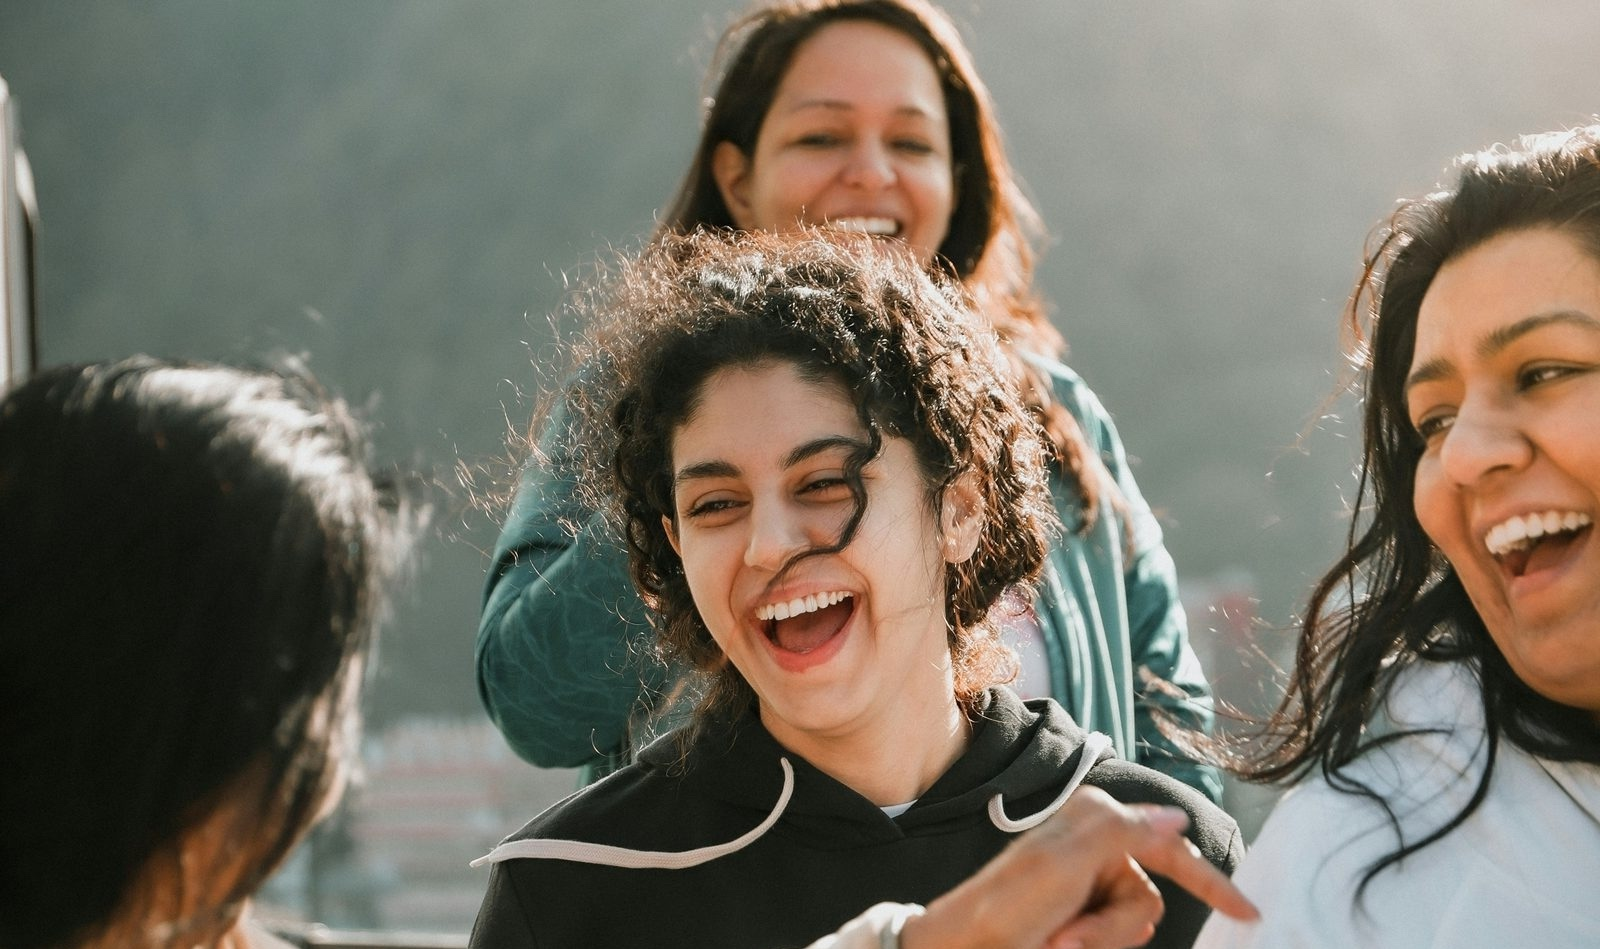
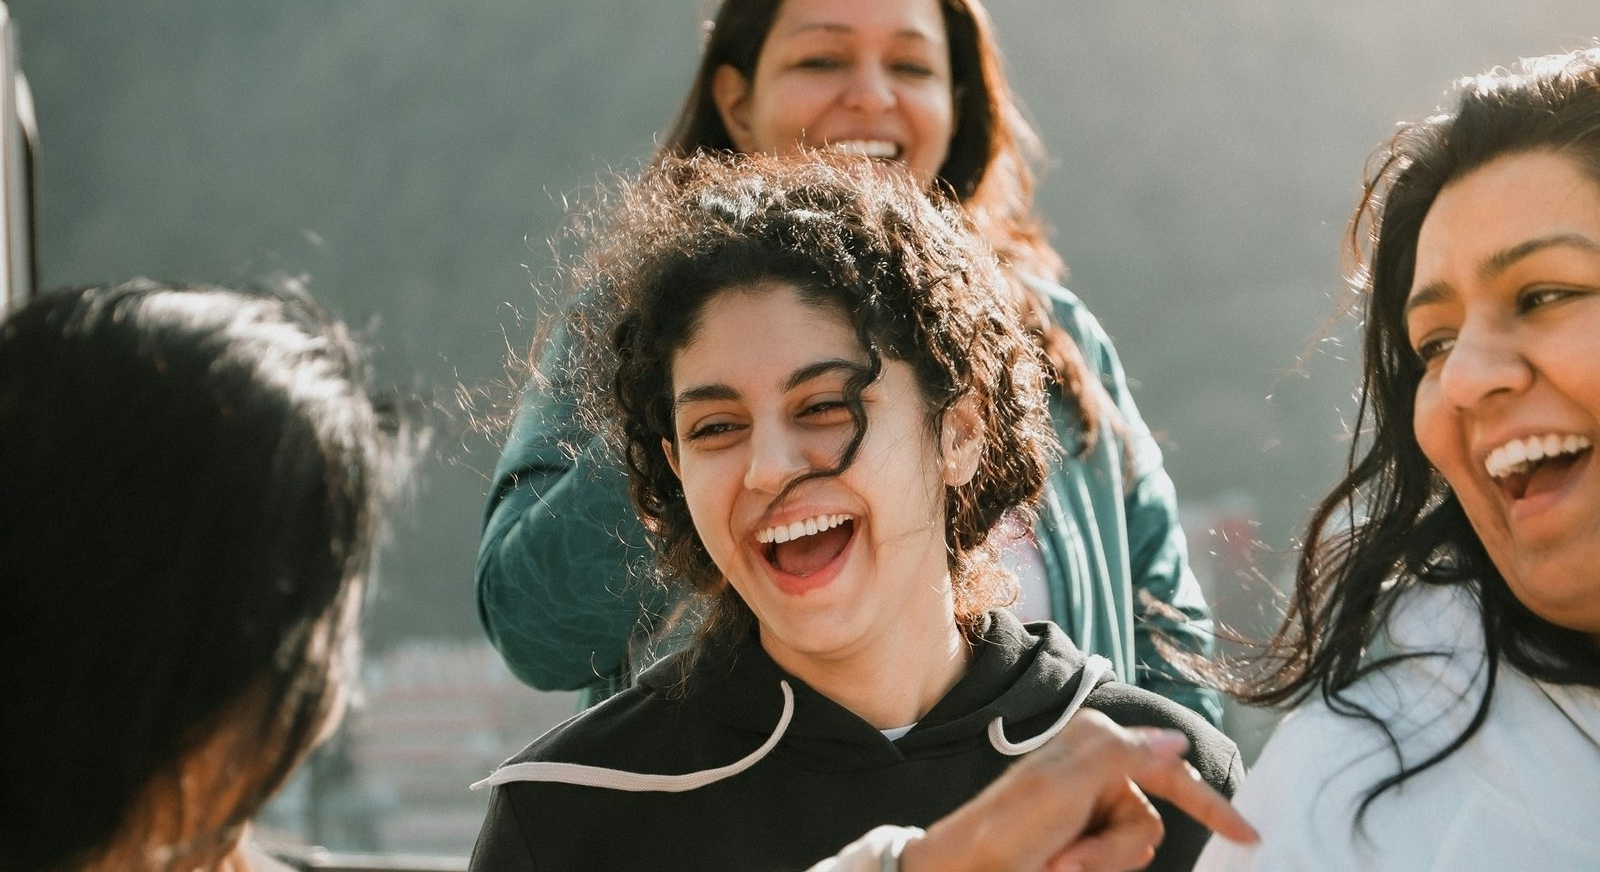
crop hero

diff --git a/index.html b/index.html
@@ -231,6 +231,18 @@
     .hero-headline .accent {
       color: var(--watercolor-lavender);
     }
+    @media (max-width: 640px) {
+      .hero {
+        height: clamp(330px, 54vh, 440px);
+      }
+      .hero-img {
+        transform: scale(1.24);
+        transform-origin: left bottom;
+      }
+      .hero-content {
+        padding-bottom: 2rem;
+      }
+    }
 
     /* ─── Section scaffolding ──────────────────────────────────── */
     .section {
